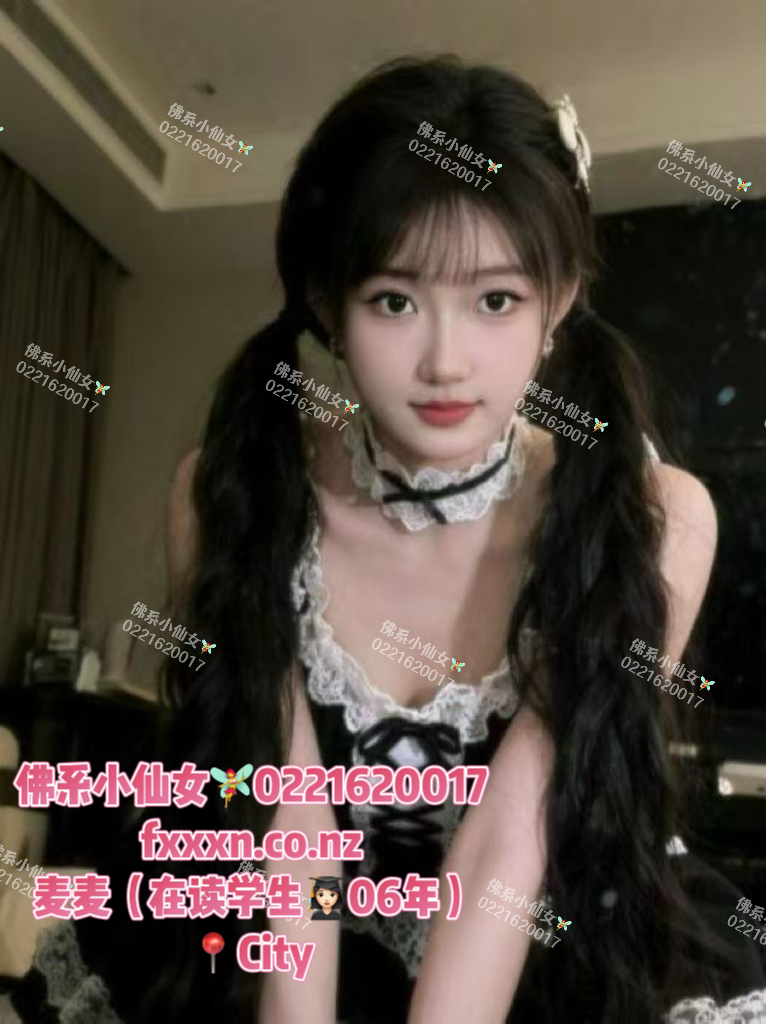
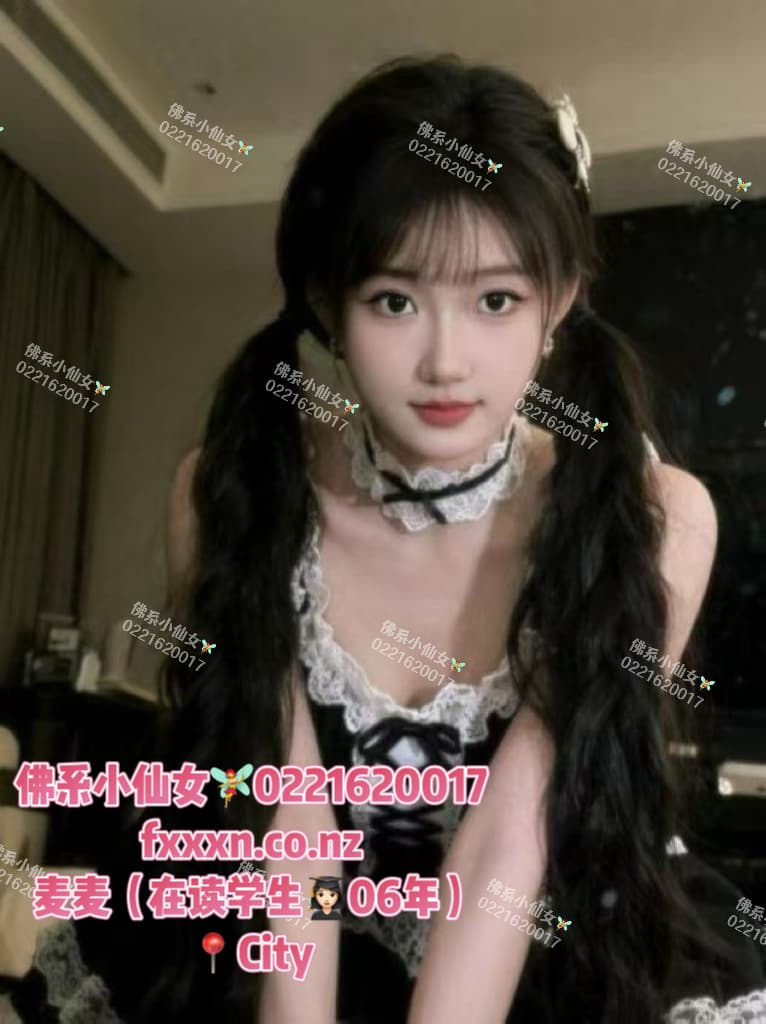
feat: add Susu (苏苏) profile and optimize media assets

diff --git a/src/lib/data.js b/src/lib/data.js
@@ -107,6 +107,39 @@ export const girls = [
       "/images/girls/aozora/IMG_8162.JPG",
       "/images/girls/aozora/IMG_8155.PNG"
     ]
+  },
+  {
+    id: 4,
+    name: { en: "Susu", cn: "苏苏" },
+    status: "available",
+    verified: true,
+    location: "CBD",
+    stats: {
+      age: 24,
+      height: "170cm",
+      weight: "47kg",
+      cup: "C",
+      nationality: "Chinese"
+    },
+    image: "/images/girls/susu/IMG_8324.JPG",
+    description: {
+      en: "A breathtaking new arrival in Auckland CBD, Susu is a 24-year-old beauty with a slender, model-like figure (170cm, 47kg) and a natural C-cup. Known for her sweet demeanor and highly cooperative personality, she brings an elite level of passion to her services. Located right at 64 Federal St, she is perfect for those seeking an unforgettable, deeply satisfying companionship. Limited stay—book your premium experience today.",
+      cn: "超高颜值空降AKL市中心，苏苏是一位24岁、拥有模特般高挑身材（170cm/47kg）及C杯性感曲线的心动女生。性格温柔乖巧，服务极其主动且配合度极高，代入感爆棚。现位于市中心 Federal St 豪华公寓，提供高端无套口、激情69、缠绵蛇吻及共浴等全套贴心服务，为您带来极具温柔与激情的完美体验。短期停留，机不可失，赶紧预约吧！"
+    },
+    price: "$450 / 1h · $350 / 30min",
+    services: {
+      en: ["Natural BJ", "69", "Deep Kiss", "Stockings", "Shower Together", "Massage", "Water Play", "Finger Slide", "Ball Play", "Uniform", "2 Shots", "Extra: BJ Finish (+$100)"],
+      cn: ["无套口", "69", "蛇吻", "丝袜", "陪浴", "按摩", "水中", "指划", "舔蛋", "制服", "可2次", "额外：口爆 (+$100)"]
+    },
+    gallery: [
+      "/images/girls/susu/IMG_8324.JPG",
+      "/images/girls/susu/IMG_8325.JPG",
+      "/images/girls/susu/IMG_8326.JPG",
+      "/images/girls/susu/IMG_8327.JPG",
+      "/images/girls/susu/IMG_8328.JPG",
+      "/images/girls/susu/IMG_8329.JPG",
+      "/images/girls/susu/IMG_8464.PNG"
+    ]
   }
 ];
 
